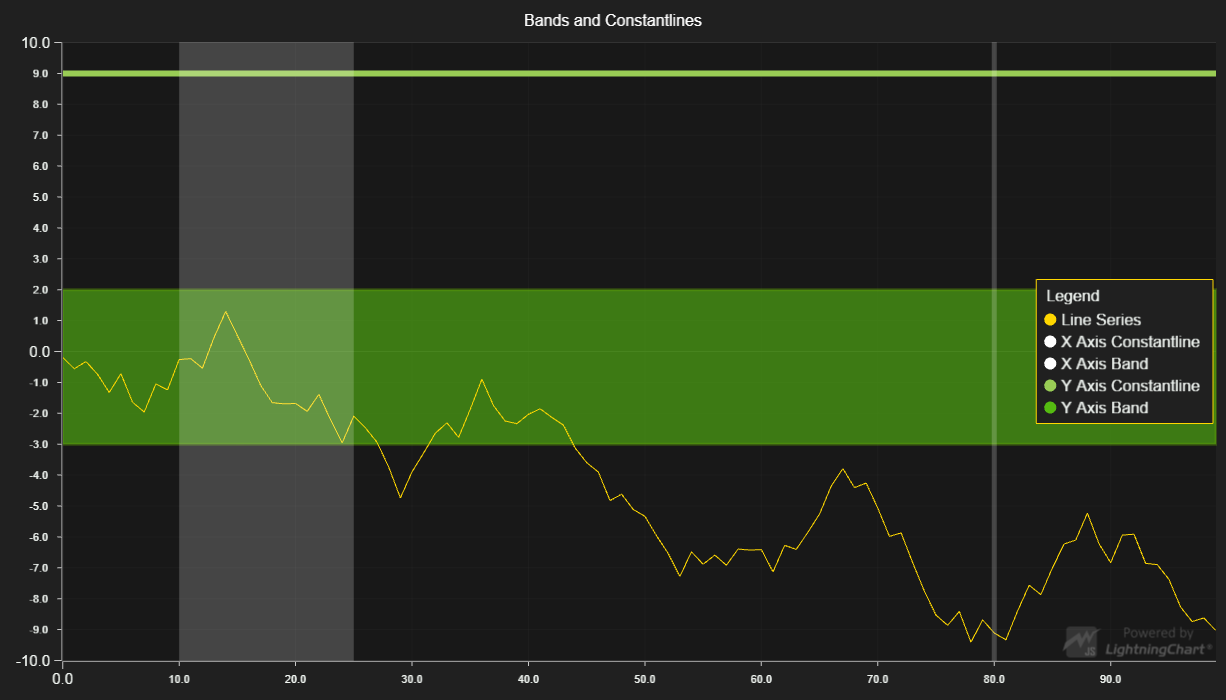
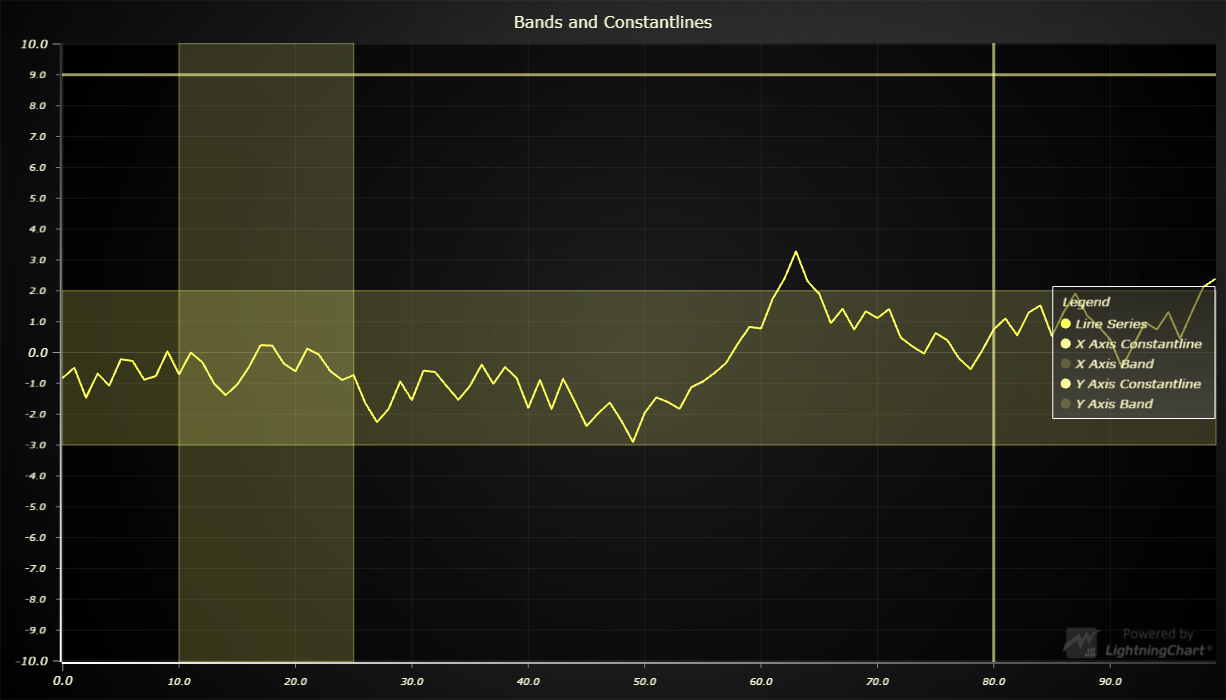
Update LCJS version

diff --git a/src/index.js b/src/index.js
@@ -7,9 +7,6 @@ const lcjs = require('@arction/lcjs')
 // Extract required parts from LightningChartJS.
 const {
     lightningChart,
-    ColorHEX,
-    SolidLine,
-    SolidFill,
     Themes
 } = lcjs
 
@@ -22,7 +19,7 @@ const chartTitle = 'Bands and Constantlines'
 
 // Create a XY Chart.
 const chart = lightningChart().ChartXY({
-    // theme: Themes.dark
+    // theme: Themes.darkGold
 })
     .setTitle(chartTitle)
 
@@ -79,26 +76,11 @@ yAxisBand
     .setValueEnd(2)
     .setValueStart(-3)
 
-// Style the Y Axis Band
-yAxisBand
-    .setStrokeStyle(
-        new SolidLine({
-            thickness: 3,
-            fillStyle: new SolidFill({ color: ColorHEX('#6a05') })
-        })
-    )
-yAxisBand
-    .setFillStyle(
-        new SolidFill({ color: ColorHEX('#5b19') })
-    )
-
-// Style the Y Axis Constantline
-yAxisConstantLine.setStrokeStyle(
-    new SolidLine({
-        thickness: 6,
-        fillStyle: new SolidFill({ color: ColorHEX('#9c5') })
-    }))
-
 // Add a LegendBox, add the Chart in it.
 chart.addLegendBox()
+    // Dispose example UI elements automatically if they take too much space. This is to avoid bad UI on mobile / etc. devices.
+    .setAutoDispose({
+        type: 'max-width',
+        maxWidth: 0.30,
+    })
     .add(chart)

diff --git a/webpack.config.js b/webpack.config.js
@@ -69,7 +69,8 @@ module.exports = {
         }),
         new CopyWebpackPlugin({
             patterns: [
-                { from: './assets/**/*', to: './examples/assets', flatten: true, noErrorOnMissing: true }
+                { from: './assets/**/*', to: './examples/assets', flatten: true, noErrorOnMissing: true },
+                { from: './node_modules/@arction/lcjs/dist/resources', to: 'resources', noErrorOnMissing: true },
             ]
         })
     ]

diff --git a/README.md b/README.md
@@ -129,9 +129,9 @@ Direct developer email support can be purchased through a [Support Plan][4] or b
 © Arction Ltd 2009-2020. All rights reserved.
 
 
-[XY cartesian chart]: https://www.arction.com/lightningchart-js-api-documentation/v3.0.1/classes/chartxy.html
-[Line series]: https://www.arction.com/lightningchart-js-api-documentation/v3.0.1/classes/lineseries.html
-[HEX color factory]: https://www.arction.com/lightningchart-js-api-documentation/v3.0.1/globals.html#colorhex
-[Bands]: https://www.arction.com/lightningchart-js-api-documentation/v3.0.1/classes/band.html
-[ConstantLines]: https://www.arction.com/lightningchart-js-api-documentation/v3.0.1/classes/constantline.html
+[XY cartesian chart]: https://www.arction.com/lightningchart-js-api-documentation/v3.1.0/classes/chartxy.html
+[Line series]: https://www.arction.com/lightningchart-js-api-documentation/v3.1.0/classes/lineseries.html
+[HEX color factory]: https://www.arction.com/lightningchart-js-api-documentation/v3.1.0/globals.html#colorhex
+[Bands]: https://www.arction.com/lightningchart-js-api-documentation/v3.1.0/classes/band.html
+[ConstantLines]: https://www.arction.com/lightningchart-js-api-documentation/v3.1.0/classes/constantline.html
 
